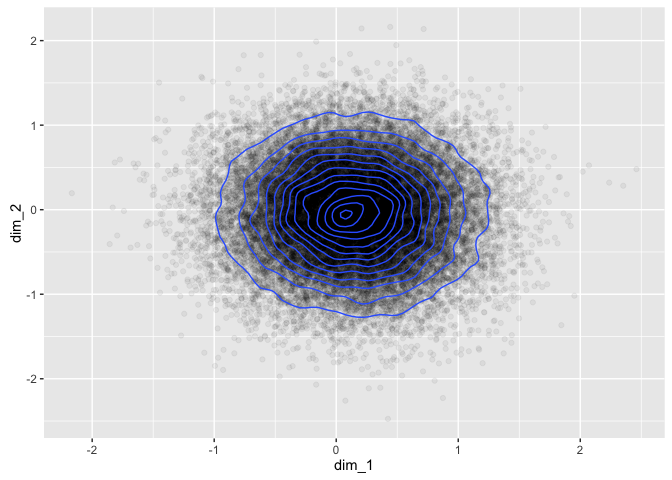
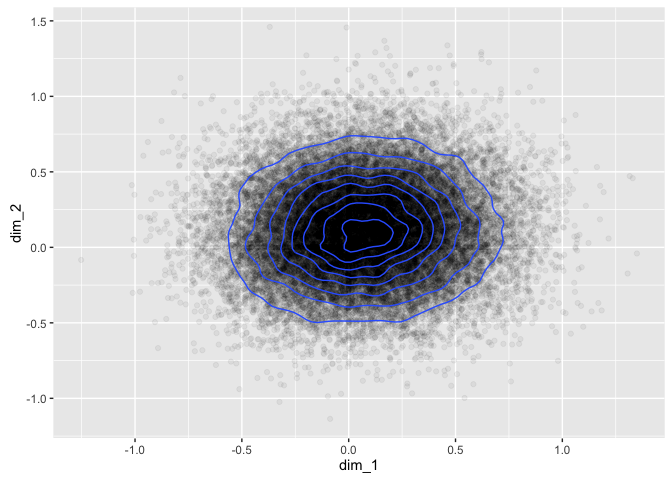
It looks like it\'s working\!

diff --git a/Experimentation/GloVeDistributions.md b/Experimentation/GloVeDistributions.md
@@ -58,7 +58,7 @@ prepare_text <- function(x) {
 }
 
 glove_input <- prepare_text(ref$ImpactDetails)
-tokens <- space_tokenizer(glove_input)
+tokens <- word_tokenizer(glove_input)
 it <- itoken(tokens)
 vocab <- create_vocabulary(it)
 vocab <- prune_vocabulary(vocab, term_count_min = 5L)
@@ -87,10 +87,10 @@ word_vectors[c("cat", "dog", "research", "impact"),]
 ```
 
     ##                [,1]        [,2]
-    ## cat      -0.5180512 -0.01000066
-    ## dog      -1.2433065 -0.03891423
-    ## research  2.3732041 -3.88405359
-    ## impact    2.0057199 -3.77422833
+    ## cat       0.6441788  0.05966694
+    ## dog       1.4972423  0.18532640
+    ## research -1.2071247 -4.43754125
+    ## impact   -0.7722179 -4.21917439
 
 We can also look at how these words are distributed across the two dimensional space.
 
@@ -110,7 +110,7 @@ This is good! They sort of resemble a normal distribution with a bit of noise, a
 glove2 <- GlobalVectors$new(word_vectors_size = 50,
                            vocabulary = vocab,
                            x_max = 10L,
-                           #lambda = 1e-5,
+                           lambda = 1e-5,
                            shuffle=T)
 glove2$fit(tcm, n_iter = 50)
 
@@ -140,15 +140,15 @@ mardiaTest(word_vectors2[sample(1:nrow(word_vectors2), 5000),])
     ## --------------------------------------- 
     ##    data : word_vectors2[sample(1:nrow(word_vectors2), 5000), ] 
     ## 
-    ##    g1p            : 49.64161 
-    ##    chi.skew       : 41368.01 
+    ##    g1p            : 45.07171 
+    ##    chi.skew       : 37559.76 
     ##    p.value.skew   : 0 
     ## 
-    ##    g2p            : 2708.41 
-    ##    z.kurtosis     : 53.15227 
+    ##    g2p            : 2701.326 
+    ##    z.kurtosis     : 49.67892 
     ##    p.value.kurt   : 0 
     ## 
-    ##    chi.small.skew : 41393.8 
+    ##    chi.small.skew : 37583.18 
     ##    p.value.small  : 0 
     ## 
     ##    Result          : Data are not multivariate normal. 
@@ -162,7 +162,7 @@ hzTest(word_vectors2[sample(1:nrow(word_vectors2), 5000),])
     ## --------------------------------------------- 
     ##   data : word_vectors2[sample(1:nrow(word_vectors2), 5000), ] 
     ## 
-    ##   HZ      : 1.000101 
+    ##   HZ      : 1.000221 
     ##   p-value : 0 
     ## 
     ##   Result  : Data are not multivariate normal. 
@@ -176,8 +176,8 @@ roystonTest(word_vectors2[sample(1:nrow(word_vectors2), 2000),])
     ## --------------------------------------------- 
     ##   data : word_vectors2[sample(1:nrow(word_vectors2), 2000), ] 
     ## 
-    ##   H       : 179.0934 
-    ##   p-value : 1.992077e-16 
+    ##   H       : 196.0446 
+    ##   p-value : 3.533865e-19 
     ## 
     ##   Result  : Data are not multivariate normal. 
     ## ---------------------------------------------
@@ -187,30 +187,223 @@ These are all pretty resounding "no" results from the formal tests, however it i
 Before we move on, we might as well check that similar words are near each other, and different words are far apart. We can do this visually using the 2 dimensional GloVe model.
 
 ``` r
-word_vectors[c("kidney", "liver", "institute", "university"),]
+word_vectors[c("kidney", "bladder", "institute", "university"),]
 ```
 
-    ##                  [,1]       [,2]
-    ## kidney     -1.3393464 -0.4400932
-    ## liver      -1.0516277 -0.2263514
-    ## institute   0.2867716 -1.5994302
-    ## university  2.2799035 -1.3602230
+    ##                  [,1]      [,2]
+    ## kidney      1.8903863 -0.241259
+    ## bladder     2.2078429  0.251237
+    ## institute   0.7059176 -1.811910
+    ## university -1.4081683 -2.165120
 
-It looks like it works pretty well, even in 2 dimensions! To be extra certain we can look at the euclidian distances between the words in the 50 dimensional GloVe model.
+It looks like it works pretty well, even in 2 dimensions! To be extra certain we can look at similar words in the 50 dimensional GloVe model.
 
 ``` r
-dist(word_vectors2[c("kidney", "liver", "institute", "university"),],
-     method = "euclidian")
+get_nearest <- function(x) {
+  sim2(x = word_vectors2, y = word_vectors2[x,,drop=F], 
+       method = "cosine", norm = "l2")[,1] %>% 
+    sort(decreasing = TRUE) %>% head(5)
+}
+get_nearest("kidney")
 ```
 
-    ##              kidney    liver institute
-    ## liver      3.943530                   
-    ## institute  5.380191 5.360952          
-    ## university 7.064157 7.207583  5.117141
+    ##      kidney  transplant     chronic       atlas respiratory 
+    ##   1.0000000   0.6421675   0.6406666   0.5908269   0.5707309
 
-This is as expected - kidney and liver are the closest two words, then institute and university are the next closest pairing. The 50-dimensonal representation is doing a reasonable job of separating out the words.
+``` r
+get_nearest("bladder")
+```
+
+    ##   bladder      skin      aqua    rectal steroidal 
+    ## 1.0000000 0.5694836 0.5563676 0.5470283 0.5400433
+
+``` r
+get_nearest("institute")
+```
+
+    ##   institute  department     academy     british association 
+    ##   1.0000000   0.6268260   0.5962060   0.5869160   0.5841652
+
+``` r
+get_nearest("university")
+```
+
+    ## university     oxford  cambridge    bristol    glasgow 
+    ##  1.0000000  0.7785064  0.7569955  0.7390735  0.7155197
+
+This is looking promising - similar words are near each other in the 50D representation, which suggests it is doing a reasonable job of separating out the words.
+
+The final thing we can do to assess the GloVe representation is to test the word relationships using a standard test set. This is unlikely to perform very well on this dataset as it is quite specific, however it should provide a reasonable basis for comparison when tuning the GloVe model later in the project.
+
+``` r
+questions_file <- '~/impactface/Data/questions-words.txt'
+qlst <- prepare_analogy_questions(questions_file,
+                                  rownames(word_vectors2),
+                                  verbose = T)
+```
+
+    ## 2016-10-12 23:03:51 -  9018 full questions found out of 19544 total
+
+``` r
+res <- check_analogy_accuracy(questions_list = qlst, 
+                              m_word_vectors = word_vectors2,
+                              verbose = T)
+```
+
+    ## 2016-10-12 23:03:53 - capital-common-countries: correct 61 out of 506, accuracy = 0.1206
+
+    ## 2016-10-12 23:03:56 - capital-world: correct 71 out of 1638, accuracy = 0.0433
+
+    ## 2016-10-12 23:03:56 - currency: correct 0 out of 40, accuracy = 0.0000
+
+    ## 2016-10-12 23:03:57 - city-in-state: correct 11 out of 449, accuracy = 0.0245
+
+    ## 2016-10-12 23:03:57 - family: correct 21 out of 182, accuracy = 0.1154
+
+    ## 2016-10-12 23:03:58 - gram1-adjective-to-adverb: correct 4 out of 506, accuracy = 0.0079
+
+    ## 2016-10-12 23:03:59 - gram2-opposite: correct 0 out of 240, accuracy = 0.0000
+
+    ## 2016-10-12 23:04:01 - gram3-comparative: correct 72 out of 930, accuracy = 0.0774
+
+    ## 2016-10-12 23:04:01 - gram4-superlative: correct 8 out of 210, accuracy = 0.0381
+
+    ## 2016-10-12 23:04:03 - gram5-present-participle: correct 46 out of 870, accuracy = 0.0529
+
+    ## 2016-10-12 23:04:06 - gram6-nationality-adjective: correct 54 out of 1299, accuracy = 0.0416
+
+    ## 2016-10-12 23:04:08 - gram7-past-tense: correct 69 out of 992, accuracy = 0.0696
+
+    ## 2016-10-12 23:04:09 - gram8-plural: correct 2 out of 650, accuracy = 0.0031
+
+    ## 2016-10-12 23:04:10 - gram9-plural-verbs: correct 40 out of 506, accuracy = 0.0791
+
+    ## 2016-10-12 23:04:10 - OVERALL ACCURACY = 0.0509
+
+The overall accuracy isn't hugely important in this context, and it will be improved upon when the model is tuned.
 
 GloVe Representation of Sentences
 ---------------------------------
 
-To be continued...
+There is currently no universally accepted method for combining GloVe (or word2vec) vectors into sentences. Some approaches involve training a new model to look at sentence context, however this requires significantly more training data than I have access to. Other approaches include either:
+
+1.  taking the average vector for each of the words in the sentence, or
+2.  applying the tf-idf weighted average vector for each of the words in the sentence.
+
+Given that the second option should up-weight important words and down-weight unimportant words, it seems like a good option. We can implement this by constructing a document-term matrix (DTM) and then multiplying the matrices together.
+
+``` r
+tokens <- word_tokenizer(tidy_ref$text)
+it <- itoken(tokens)
+# use vocab from last GloVe model
+vectorizer <- vocab_vectorizer(vocab)
+dtm <- create_dtm(it, vectorizer)
+tfidf <- TfIdf$new()
+dtm_tfidf <- fit_transform(dtm, tfidf)
+sentence_vectors <- dtm_tfidf %*% word_vectors2
+```
+
+I have to admit I'm a little surprised that worked; I was expecting that step to be a lot harder! The next step is to revisit the multivariate normality assumption with this new data. There is a heap more of it (as there are more sentences in the corpus than words in the vocabulary) so the formal tests will definitely not be satisfied, but **ggplot2** should still be able to handle the full dataset.
+
+``` r
+sen_plot <- as.data.frame(as.matrix(sentence_vectors[,c(1,2,25,50)]))
+names(sen_plot) <- c("dim_1", "dim_2", "dim_25", "dim_50")
+ggplot(sen_plot) +
+  geom_point(aes(x=dim_1, y=dim_2), alpha = 0.05) +
+  geom_density2d(aes(x=dim_1, y=dim_2))
+```
+
+![](GloVeDistributions_files/figure-markdown_github/unnamed-chunk-3-1.png)
+
+``` r
+ggplot(sen_plot) +
+  geom_point(aes(x=dim_25, y=dim_50), alpha = 0.05) +
+  geom_density2d(aes(x=dim_25, y=dim_50))
+```
+
+![](GloVeDistributions_files/figure-markdown_github/unnamed-chunk-3-2.png)
+
+These plots look close enough to multvariate normal for the purpose of this project, so I think we can call that a win for now. The next thing to do is check whether the position of these sentences in the GloVe vector space has any meaning. First we need to set up the similarity function, which will give (in order):
+
+1.  the sentence being compared
+2.  the nearest sentence
+3.  the second-nearest sentence
+4.  the furthest sentence
+5.  the second-furthest sentence
+
+``` r
+dimnames(sentence_vectors) <- 
+  list(str_replace_all(tidy_ref$text,"\\s+", " ") , NULL)
+get_nearest_and_farthest <- function(x, vecs) {
+  vecs <- as.matrix(vecs)
+  sim_vec <- sim2(x = vecs, y = vecs[x,,drop=F], 
+                  method = "cosine", norm = "l2")[,1] %>% 
+               sort(decreasing = TRUE)
+  out <- c(head(sim_vec,3),tail(sim_vec,2))
+  out
+}
+```
+
+We can now see if similar sentences are being discovered by the model - here goes nothing!
+
+``` r
+get_nearest_and_farthest(1, sentence_vectors)
+```
+
+    ## the historical, cultural, methodological and ethical insights from the research and outputs have resulted in pioneering, wide-ranging and sustained impact from ntu's leading involvement and advisory role in a number of impactful projects in the documentation, management and renewal of built heritage in oman and the uae and its dissemination through public engagement. 
+    ##                                                                                                                                                                                                                                                                                                                                                                         1.0000000 
+    ##                                                                         the significant impact of the research projects has been recognised in terms of the contribution to cultural enrichment, the discussion of sites of national heritage and engagement of public in moral and ethical issues arising from new scientific developments and the transparency of closed sites. 
+    ##                                                                                                                                                                                                                                                                                                                                                                         0.8979744 
+    ##                                                                                     pathways: taken together, the impacts documented below have developed with respect to uom's reputation as a centre of research excellence in the area of class and cultural participation, resulting in a series of collaborative research relationships and consultancies with stakeholders. 
+    ##                                                                                                                                                                                                                                                                                                                                                                         0.8886134 
+    ##                                                                                                                                                                                                                                                                                                                                                 figure courtesy of bfn and ospar. 
+    ##                                                                                                                                                                                                                                                                                                                                                                        -0.5639160 
+    ##                                                                                                                                                                                   the international subarachnoid aneurysm trial (isat) was the first of its kind to compare neurosurgical clipping and endovascular coiling for patients suffering from subarachnoid haemorrhage. 
+    ##                                                                                                                                                                                                                                                                                                                                                                        -0.5853312
+
+``` r
+get_nearest_and_farthest(1234, sentence_vectors)
+```
+
+    ##                                                                                                                                                                                                                                                                                                                                                                                                                                                                                                                                                                                      policy the uk`s cabinet office, and office of the prime minister, invited varese to join the strategic review of serious organized crime, in 2009, because his work had come to the attention of the chairman of soca [section 5: c1]. 
+    ##                                                                                                                                                                                                                                                                                                                                                                                                                                                                                                                                                                                                                                                                                                                                                                                                                   1.0000000 
+    ##                                                                                                                                                                                                                                                                                                                                                                                                                                                                                                                                                                                                             following this meeting, dr mihir shah, member of the indian government's planning commission with responsibility for water, requested that cullet contribute a law section to the discussion paper in question. 
+    ##                                                                                                                                                                                                                                                                                                                                                                                                                                                                                                                                                                                                                                                                                                                                                                                                                   0.8892530 
+    ## the appccg chair mr colin challen mp was shortly afterwards granted a private meeting about the report and its contents with the then prime minister, tony blair.5.2 responding directly to recommendation 12 of the appccg report &#8212; which had not been previously proposed in the labour government's 2005 manifesto &#8212; the government brought forward proposals in the 2006 queen's speech for what became the climate change act, which at its core had the establishment of the uk climate change committee (ukccc), an independent non-departmental public body of climate scientists and economists mandated to recommend uk climate targets and monitor progress towards them.5.2, 5.3, 5.4 establishment of the uk climate change committee the climate change act was passed into law in november 2008. 
+    ##                                                                                                                                                                                                                                                                                                                                                                                                                                                                                                                                                                                                                                                                                                                                                                                                                   0.8879330 
+    ##                                                                                                                                                                                                                                                                                                                                                                                                                                                                                                                                                                                                                                                                                                                                   these were based on a patterned ito electrode, connector-device and encapsulation system. 
+    ##                                                                                                                                                                                                                                                                                                                                                                                                                                                                                                                                                                                                                                                                                                                                                                                                                  -0.5620864 
+    ##                                                                                                                                                                                                                                                                                                                                                                                                                                                                                                                                                                                                                                                                 here, the products target particularly aubergine, cucumber, melon, pepper, blueberry, raspberry, strawberry, tomato, cut flowers and ornamental pot plants. 
+    ##                                                                                                                                                                                                                                                                                                                                                                                                                                                                                                                                                                                                                                                                                                                                                                                                                  -0.5674509
+
+``` r
+get_nearest_and_farthest(5678, sentence_vectors)
+```
+
+    ##                                                                                             the two handbooks have had 2894 views since 2011. 
+    ##                                                                                                                                     1.0000000 
+    ##                                             from july 2010 to july 2013, presentations and briefings have been made on 14 separate occasions. 
+    ##                                                                                                                                     0.8197176 
+    ##                                               this has been on sale since october 2009 and over 30 installations have been carried out [4.2]. 
+    ##                                                                                                                                     0.8191136 
+    ##                                                                                     (amos bertolacci, scuola normale superiore, pisa, italy). 
+    ##                                                                                                                                    -0.5295576 
+    ## this csip-cefas underpinning research utilises a sentinel marine mammal apex predator - the uk-stranded harbour porpoise (phocoena phocoena). 
+    ##                                                                                                                                    -0.5607831
+
+``` r
+get_nearest_and_farthest(9999, sentence_vectors)
+```
+
+    ##                                                                                                                                                   additionally, the changes have benefited patients who required fewer attendances and no splint in the majority of cases, without compromise to outcomes". 
+    ##                                                                                                                                                                                                                                                                                                   1.0000000 
+    ## at great ormond street hospital and uclh there are currently 21 children and adolescent patients being treated with tocilizumab who would otherwise have had active disease with its potential problems and most likely would have been on high dose steroids and suffering the complications of this also. 
+    ##                                                                                                                                                                                                                                                                                                   0.7802381 
+    ##                                                                                                                                                                                                    patients carrying the specific genetic markers had a higher remission compared to those who did not [f]. 
+    ##                                                                                                                                                                                                                                                                                                   0.7785287 
+    ##                                                                                                                                                                                                              the members of this consortium include intel, micron, samsung, sandisk, sk hynix, and toshiba. 
+    ##                                                                                                                                                                                                                                                                                                  -0.4710758 
+    ##                                                                                                                                                                                                                                              barack obama and the liberal news media', in the conversation. 
+    ##                                                                                                                                                                                                                                                                                                  -0.4796429
+
+I don't want to get too carried away here, but it looks like it's working! The first three sentences in each comparison are similar, and the last two are very dissimilar! I'm going to claim that as a win for now, and I'm comfortable that the first assumption under test in this script is viable.
